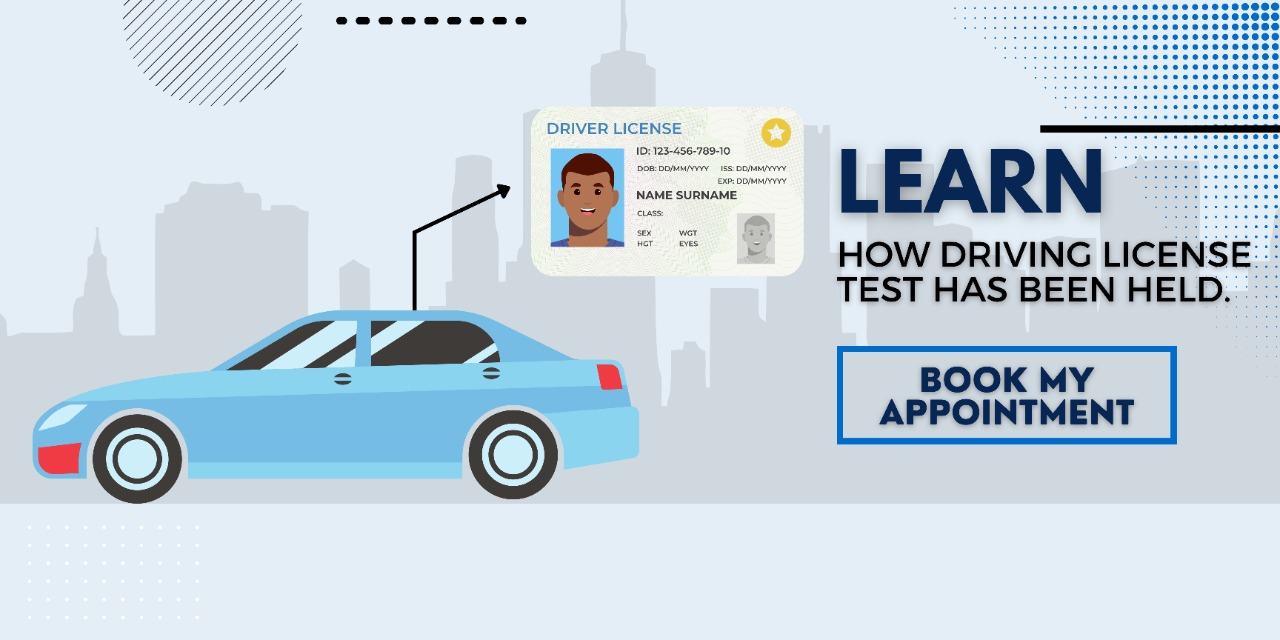
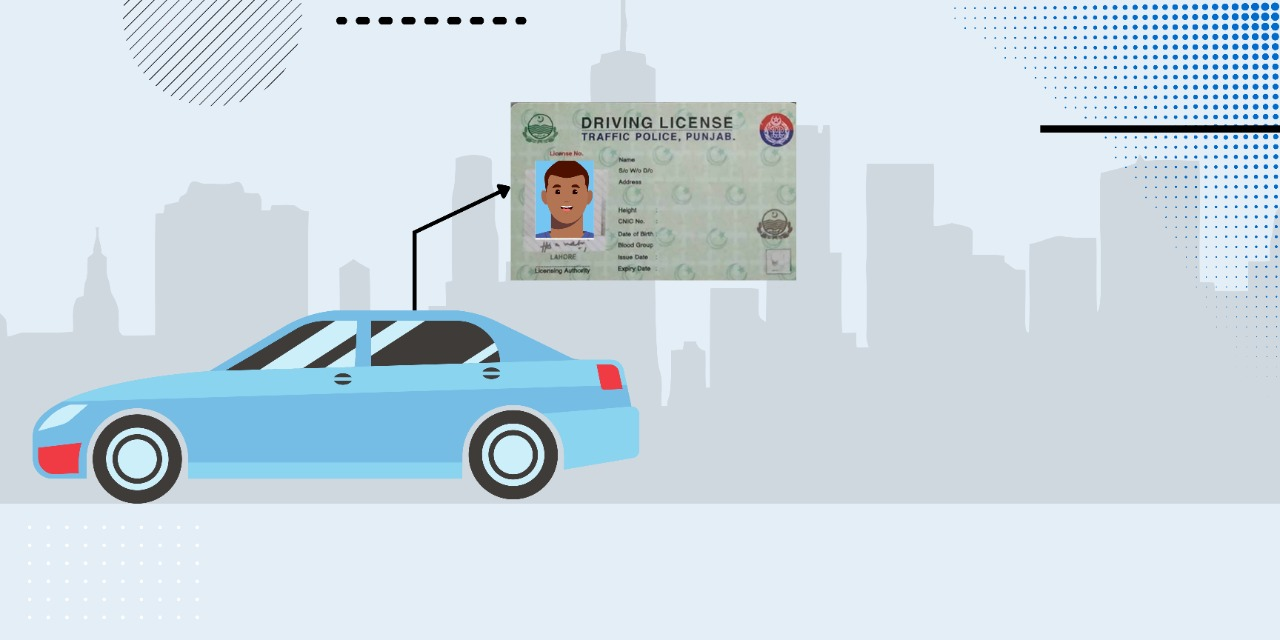
changed

Changed region(s): [[0.375, 0.1562, 1.0, 0.5], [0.6562, 0.5312, 0.9375, 0.7188]]

diff --git a/src/Stylesheet.scss b/src/Stylesheet.scss
@@ -4,6 +4,7 @@
  @import url('https://fonts.cdnfonts.com/css/catamaran');
  
 @import url('https://fonts.cdnfonts.com/css/poppins');
+
 *{
     margin-top: 0;
     padding: 0;
@@ -228,10 +229,7 @@
   border-radius: 5px;
 
   }
-  #homemenu{
-    margin-top: 18%;
-    width: 100%;
-    }
+ 
   #hnavbarScrollingDropdown{
     margin-top: 25px;
     color: white;
@@ -405,10 +403,6 @@ margin-right:5%
         margin-top: 25%;
         width: fit-content;
         width: 100%;
-      }
-      #homemenu{
-      margin-top: 26.5%;
-      width: 100%;
       }
       #hmenu{
         background-color:white;
@@ -623,6 +617,14 @@ margin-right:5%
     margin-top: -40px;
     width: 100px;
     height: 40px;
+  }
+  .croos2{
+    margin-left: 600px;
+    position: absolute;
+    margin-top: -45px;
+    width: 100px;
+    height: 40px;
+   
   }
   .bb{
     color: white;
@@ -950,7 +952,10 @@ margin-right:5%
  
  }
  .HM{
-  margin-top: -415px;
+  margin-top: 70px;
+  bottom: 0px;
+  left: 50px;
+
  }
  .aheader{
   width: 1366px;
@@ -958,3 +963,75 @@ margin-right:5%
   margin-right: -99px;
   margin-top: -60px;
  }
+ .center_div{
+  
+  
+  display: grid;
+  place-items: center;
+}
+.learn{
+  color: #4589ff;
+  font-size: 4rem;
+  font-weight: bolder;
+  text-transform: uppercase;
+  position: relative;
+  top: 200px;
+  left: 480px;
+
+}
+.learn::before{
+  content: "LEARN";
+  width: 0%;
+  color: #360568;
+  position: absolute;
+  top: 0;
+  animation: slide 5s linear ;
+  -webkit-animation: slide 5s linear ;
+  overflow: hidden;
+}
+.learnM{
+  color: #360568;
+  font-size: 2rem;
+  font-weight: bolder;
+  text-transform: uppercase;
+  position: relative;
+  top: 200px;
+  left: 540px;
+  text-align: justify;
+
+}
+.learnN{
+  color: #360568;
+  font-size: 2rem;
+  font-weight: bolder;
+  text-transform: uppercase;
+  position: relative;
+  top: 200px;
+  left: 510px;
+  text-align: justify;
+
+}
+@keyframes slide{
+  0%{
+    width: 0%;
+  }
+  50%{
+    width: 100%;
+  }
+  100%{
+    width: 0%;
+  }
+}
+.homeText{
+  text-align: justify;
+  margin-left: 20px;
+  margin-right: 25px;
+  font-size: large;
+}
+.over{
+  text-align: center;
+  color: #360568;
+  font-size: 4rem;
+  font-weight: bold;
+  text-transform: uppercase;
+}

diff --git a/src/Components/NeedShareRideModule/ShareRide.jsx b/src/Components/NeedShareRideModule/ShareRide.jsx
@@ -17,6 +17,8 @@ import { collection, getDocs, addDoc, } from "firebase/firestore";
 import { BouncingBalls } from "react-cssfx-loading";
 import Header from '../Header/Header';
 import areas from './Area'
+import { ToastContainer, toast } from 'react-toastify'; 
+import 'react-toastify/dist/ReactToastify.css'; 
 
 
 export default function ShareRide({changeLanguage, toggleDark, settoggleDark}) {
@@ -63,7 +65,7 @@ const handleChange = (newValue) => {
     
       e.preventDefault();
       const {name, city, area, center, gender,vehcile}=user ;
-      if (( name, city, area, center, gender,vehcile && date, time, phone && phone.length==15)){
+      if (( name, city, area, center, gender,vehcile && date && time && phone && phone.length==15)){
         setBtnShown(false)
         setLoadShown(true)
        const res= await addDoc(userCollectionRef,{name: user.name, phone: phone, date: date, time: time, area: user.area, city: user.city, gender: user.gender, center:user.center, vehcile:user.vehcile})
@@ -79,12 +81,14 @@ const handleChange = (newValue) => {
                 gender: ""
                 });
                 setLoadShown(false)
+                toast.success('Ride Shared Successfully')
                 setBtnShown(true)
+                
                 
                
         }
       }else{
- alert("kindly fill complete form")
+        toast.error('Fill the form completely')
       }  }
 
      
@@ -246,6 +250,7 @@ const handleChange = (newValue) => {
 <div className='submit'>
          <Button color="primary" variant="contained" className='submitB' onClick={postData} >Submit
          </Button>
+         <ToastContainer />
          </div>
     
 						

diff --git a/src/Components/NeedShareRideModule/NeedRide.jsx b/src/Components/NeedShareRideModule/NeedRide.jsx
@@ -18,7 +18,8 @@ import Select from '@mui/material/Select';
 import Button from '@mui/material/Button';
 import Header from '../Header/Header';
 import areas from './Area'
-
+import { ToastContainer, toast } from 'react-toastify'; 
+import 'react-toastify/dist/ReactToastify.css'; 
 const NeedRide = ({changeLanguage, toggleDark, settoggleDark}) => {
   const [input, setInput]= useState([]);
   const [date, setDate] = useState("");
@@ -52,7 +53,7 @@ const NeedRide = ({changeLanguage, toggleDark, settoggleDark}) => {
 }, [])
   const handleFilter=(center, area, gender, vehcile, date)=>{
     
-    if (( area, center, gender,vehcile,date)){
+    if (( area && center&& gender&&vehcile&&date)){
       const filterResult=search.filter(item=>{   
         return item.center===center&&item.area===area&&item.gender===gender&&item.vehcile===vehcile&&new Date(item.date.seconds*1000).toDateString()===date. toDateString()   
       })
@@ -61,7 +62,7 @@ const NeedRide = ({changeLanguage, toggleDark, settoggleDark}) => {
       setInput(filterResult) 
     }
     else{
-      alert("kindly fill complete form")
+      toast.error('Fill the form completely')
     }
   } 
     return ( 
@@ -168,6 +169,7 @@ const NeedRide = ({changeLanguage, toggleDark, settoggleDark}) => {
 <div className='submitN'>
          <Button color="primary" variant='contained' className='searchButton'  onClick={()=>{handleFilter(user.center, user.area, user.gender,user.vehcile, date) }}> Search
          </Button>
+         <ToastContainer />
          </div>
          
 </div>

diff --git a/src/Components/DrivingTestModule/SignTest/Quiz.jsx b/src/Components/DrivingTestModule/SignTest/Quiz.jsx
@@ -6,12 +6,14 @@ import bulb from '../../Images/bulb.png'
 import Button from '@mui/material/Button';
 import { useNavigate } from 'react-router-dom';
 import { AiFillCloseCircle } from 'react-icons/ai';
+import { useTranslation, initReactI18next } from "react-i18next";
 
 
 const Quiz = ({changeLanguage, toggleDark, settoggleDark}) => {
   const navigate = useNavigate();
   const [lanDiv, setLanDive] = useState(false);
   const [lnDiv, setLnDive] = useState('');
+  const {t, il8n}= useTranslation();
 
     return ( 
         <> 
@@ -19,11 +21,9 @@ const Quiz = ({changeLanguage, toggleDark, settoggleDark}) => {
         <Header changeLanguage={changeLanguage} toggleDark={toggleDark} settoggleDark={settoggleDark}/>
         </div>
         <div className={lnDiv}>      
-      <h1 id='LP'> Quiz</h1>
-      <h2 style={{float:"left"}}>Instructions:</h2>
-      <p style={{float:"left", marginLeft:"170px",textAlign:"left", fontSize:"25px"}}>You will be asked a few questions and terms related to traffic and safety rules.
-      You have to choose the correct answers to every question, and your final score will be displayed at the end.
-      You have 2 minutes to solve 10 questions. to pass this test you must answer 6 questions right.</p>
+      <h1 id='LP'> {t('Quiz')}</h1>
+      <h2 style={{float:"left"}}>{t('Quiz1')}</h2>
+      <p style={{float:"left", marginLeft:"170px",textAlign:"left", fontSize:"25px"}}>{t('Quiz2')}.</p>
       </div>
       {lanDiv && ( 
       <div className='quizLan'>

diff --git a/src/Components/Home/Home.jsx b/src/Components/Home/Home.jsx
@@ -13,6 +13,8 @@ import Switch from '@mui/material/Switch';
 import { styled } from '@mui/material/styles';
 import { useNavigate } from 'react-router-dom';
 
+
+
 const Home = ({changeLanguage, toggleDark, settoggleDark} ) => {
   const [udShown, setUdShown] = useState(true);
 const [engShown, setEngShown] = useState(false);
@@ -78,6 +80,10 @@ const MaterialUISwitch = styled(Switch)(({ theme }) => ({
   },
 }));
 
+  
+
+
+
     return ( 
         <>
         <div className='HomeDiv'>
@@ -113,15 +119,18 @@ const MaterialUISwitch = styled(Switch)(({ theme }) => ({
          color="default" />
         </div>
         </div>
-        <div className="infoButton" onClick={() => {navigate('/RegularDrivingLicense')}}>
-        <Button variant='contained' className='infoB' color='primary' onClick={() => {navigate('/RegularDrivingLicense')}}>{t('infoButton')}</Button>
+        <div className="center_div">
+          <h1 className="learn"> {t('Learn')} </h1>
+          <h2 className="learnM">{t('LearnText1')} </h2>
+          <h3 className="learnN">{t('LearnText2')} </h3>
         </div>
+        
         <div className="HM">
        <HomeMenu/>
        </div>
         </Container>
         <div className='homeText'>
-          <h1>{t('overview')}</h1>
+          <h1 className="over">{t('overview')}</h1>
           <p>{t('hometext')}</p>
         </div>
          

diff --git a/src/Components/About/About.jsx b/src/Components/About/About.jsx
@@ -10,6 +10,8 @@ import Button from '@mui/material/Button';
 import SendIcon from '@mui/icons-material/Send';
 import LoadingButton from '@mui/lab/LoadingButton';
 import Header from '../Header/Header';
+import { ToastContainer, toast } from 'react-toastify'; 
+import 'react-toastify/dist/ReactToastify.css'; 
 const Contact = ({changeLanguage, toggleDark, settoggleDark}) => {
   const form = useRef();
   const [btnShown, setBtnShown] = useState(true);
@@ -47,6 +49,7 @@ if(value){
         (result) => {
             setBtnShown(true);
             setLoadShown(false);
+            toast.success('Submitted')
             setValue('')
             setName('')
             setEmail('')
@@ -59,7 +62,7 @@ if(value){
       );
       }
     else{
-        alert('kindly select the pupose')
+      toast.error('Kindly select the purpose')
     }
   } 
 
@@ -111,6 +114,7 @@ if(value){
         <div className="ASB">
         <Button color="success" type="submit" variant="contained" className='AbSubmit'endIcon={<SendIcon />}>Submit
          </Button>
+         <ToastContainer />
          </div>
          )}
         </div>

diff --git a/src/Components/DrivingTestModule/SignTest/TestQuiz.jsx b/src/Components/DrivingTestModule/SignTest/TestQuiz.jsx
@@ -1,5 +1,7 @@
 import React, { useState, useEffect} from 'react';
 import Button from '@mui/material/Button';
+import { AiFillCloseCircle } from 'react-icons/ai';
+import { useNavigate } from 'react-router-dom';
 import NewLogo from '../../Images/NewLogo.png';
 import noright from '../../Signs/noright.jpg';
 import O1 from '../../../QuestionsSigns/Q1/O1.png'
@@ -250,6 +252,7 @@ export default function App() {
 	const [sec, setSec] = useState(59);
     const [min, setMin] = useState(0);
 	const [m, setM] = useState(0);
+	const navigate = useNavigate();
 	
 	var timer;
 	useEffect(()=>{
@@ -332,7 +335,7 @@ export default function App() {
 
 	return (
 		<div className='app'>
-			
+			< AiFillCloseCircle className='croos2' onClick={()=>{{navigate('/Quiz')}}}/>
       <img width="90px"
         height="90px"
         style={{ float: "left", marginTop: "15px" }}

diff --git a/src/Components/DrivingTestModule/SignTest/QuizFinal.jsx b/src/Components/DrivingTestModule/SignTest/QuizFinal.jsx
@@ -1,5 +1,7 @@
 import React, { useState, useEffect} from 'react';
 import Button from '@mui/material/Button';
+import { AiFillCloseCircle } from 'react-icons/ai';
+import { useNavigate } from 'react-router-dom';
 import NewLogo from '../../Images/NewLogo.png';
 import noright from '../../Signs/noright.jpg';
 import O1 from '../../../QuestionsSigns/Q1/O1.png'
@@ -250,6 +252,7 @@ export default function App() {
 	const [sec, setSec] = useState(59);
     const [min, setMin] = useState(0);
 	const [m, setM] = useState(0);
+	const navigate = useNavigate();
 	
 	var timer;
 	useEffect(()=>{
@@ -333,6 +336,7 @@ export default function App() {
 	return (
 		<div className='app'>
 			
+			< AiFillCloseCircle className='croos2' onClick={()=>{{navigate('/Quiz')}}}/>
       <img width="90px"
         height="90px"
         style={{ float: "left", marginTop: "15px" }}
